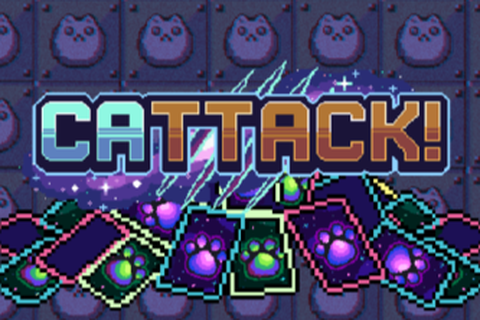
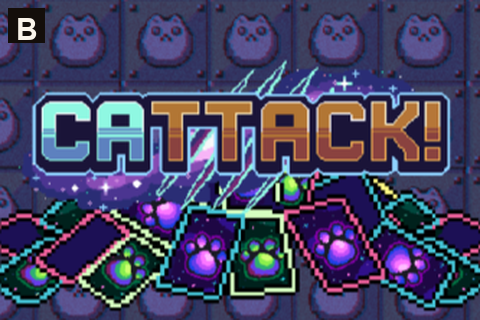
test(gate d): burn the letter into each image; a judge was mapping letters by attachment order
Two measurement faults found and fixed: the set cropped our portrait card, and
judges guessed letters from attachment order (round 4 mapped our image to C when
it was D). Letters are now drawn into the corner of each PNG.

Changed region(s): [[0.0, 0.0, 0.0938, 0.1562]]

diff --git a/scripts/blind-set.py b/scripts/blind-set.py
@@ -8,7 +8,7 @@ import json
 import random
 from pathlib import Path
 
-from PIL import Image
+from PIL import Image, ImageDraw, ImageFont
 
 ROOT = Path(__file__).resolve().parent.parent
 REF = ROOT / "_ref" / "ruler"
@@ -52,7 +52,17 @@ def main() -> None:
 
     key = {}
     for (slug, path, note), letter in zip(images, letters):
-        img = normalise(path)
+        img = normalise(path).convert("RGB")
+        # burn the letter into the image: judges reliably describe pictures but
+        # do not reliably map "the third attachment" to the letter C.
+        draw = ImageDraw.Draw(img)
+        try:
+            font = ImageFont.truetype("arialbd.ttf", 30)
+        except OSError:
+            font = ImageFont.load_default()
+        box = [8, 8, 44, 42]
+        draw.rectangle(box, fill=(20, 14, 10))
+        draw.text((16, 12), letter, fill=(250, 244, 234), font=font)
         img.save(OUT / f"{letter}.png")
         key[letter] = {"slug": slug, "note": note, "source": str(path.relative_to(ROOT))}
 

diff --git a/docs/08-GATE-D.md b/docs/08-GATE-D.md
@@ -62,7 +62,30 @@ GLM 的原话：
 - 画面下半直接画出**投柴条**（本作唯一的输入），让「可以动手」这件事在第一眼就成立。
 - 留白从 ~55% 压到 ~12%。
 
-第 3 轮：AME-1389（GLM）／AME-1390（GPT），同一批尺子第三次洗牌。
+## 第 3 轮结果（同一批图，第三次洗牌）
+
+| 评委 | 名次 | KILN | 分数 | 过线 |
+| --- | --- | --- | --- | --- |
+| 6（GLM） | E → B → **D(我们)** → C → A → F | 第 3 | 7/10 | ✅ 在 3 件得奖作之上（刚好） |
+| 7（GPT） | A → E → B → C → F → **D(我们)** | 第 6 | 5.4/10 | ❌ |
+
+## 这一轮查出两个**量法问题**（比结论重要）
+
+1. **裁切**：`blind-set.py` 把我们的 320×512 竖版卡片硬裁成 3:2，卡片左缘的
+   「ONE KILN A DAY」被切掉。GLM 评委第 3 轮原话：「左缘文字被裁掉（"HE KILN A DAY"）」
+   —— 它评的是我们的**裁切**，不是设计。已改成**只补边不裁切**。
+2. **字母错位**：第 4 轮 GPT 评委把「ONE KILN A DAY」那张写成 **C**，而它实际是 **D**；
+   它给 D 的描述（六边格/字块）其实是 hexaword（C）。**评委在按附件顺序猜字母**，
+   这种rankings不能拿来判线。已改成**把字母烧进图片左上角**（`scripts/blind-set.py`）。
+
+## 第 4 轮（改量法：不裁切 + 用 3:2 封面）
+
+GPT（AME-1392）：E → A → B → **D(我们)** → C → F，把我们排第 4，只压过 2 件；
+且字母仍然错位（见上），**本轮作废**。GLM 那份一直没交卷。
+
+## 第 5 轮（现行）
+
+字母烧进图（左上角黑底白字），两张图同一批尺子。AME-1393（GLM）／AME-1394（GPT）。
 
 **为什么本机抓不到 D、E**：`www.reddit.com` 走代理能通，但 `/r/...` 与 `.json` 都返回
 “Prove your humanity” 人机验证；`i.redd.it` 上的帖子预览图必须带签名。Devpost 的项目页只给
